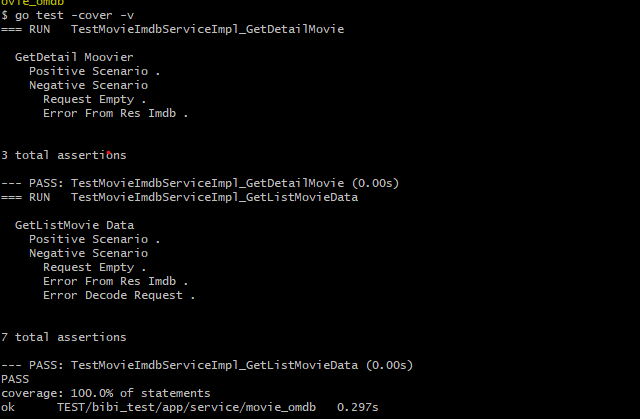
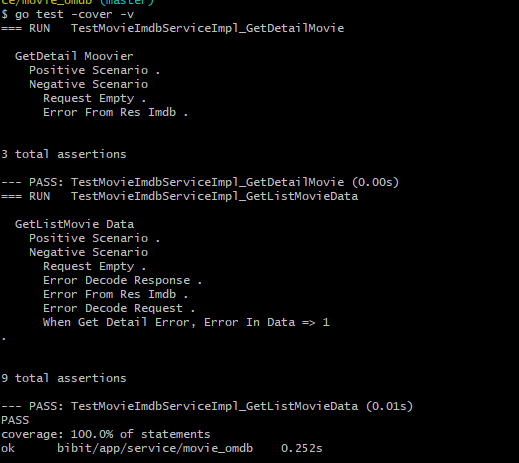
updating unit test

diff --git a/app/service/movie_omdb/movie_imdb_test.go b/app/service/movie_omdb/movie_imdb_test.go
@@ -46,7 +46,18 @@ func TestMovieImdbServiceImpl_GetListMovieData(t *testing.T) {
 				Page:    2,
 				Keyword: "2",
 			}
-			client.On("GetListMovieOmdb", req).Return(mock.Anything, nil)
+			var lis []*model.DataFilmList
+
+			lis = append(lis,&model.DataFilmList{
+				ImdbId: "1",
+
+			})
+			out:= &model.ResponseListFilm{
+				ListFilm: lis,
+				TotalResult: "1",
+			}
+			client.On("GetDeatailMovie", "1").Return(&model.ResponseGetDetailMovie{}, nil)
+			client.On("GetListMovieOmdb", req).Return(out, nil)
 			_, err := uc.GetListMovieData(req)
 			So(err, ShouldBeNil)
 		})
@@ -55,6 +66,17 @@ func TestMovieImdbServiceImpl_GetListMovieData(t *testing.T) {
 				client := &m.MovieImdbMockRepo{}
 				uc := NewMovieImdbServiceImpl(client)
 				_, err := uc.GetListMovieData(nil)
+				So(err, ShouldNotBeNil)
+			})
+			Convey("Error Decode Response", func() {
+				client := &m.MovieImdbMockRepo{}
+				uc := NewMovieImdbServiceImpl(client)
+				req := &model.GetListMovieRequest{
+					Page:    2,
+					Keyword: "2",
+				}
+				client.On("GetListMovieOmdb", req).Return([]string{"1"}, nil)
+				_, err := uc.GetListMovieData(req)
 				So(err, ShouldNotBeNil)
 			})
 			Convey("Error From Res Imdb", func() {
@@ -73,6 +95,28 @@ func TestMovieImdbServiceImpl_GetListMovieData(t *testing.T) {
 				uc := NewMovieImdbServiceImpl(client)
 				_, err := uc.GetListMovieData([]string{"1"})
 				So(err, ShouldNotBeNil)
+			})
+			Convey("When Get Detail Error,", func() {
+				client := &m.MovieImdbMockRepo{}
+				uc := NewMovieImdbServiceImpl(client)
+				req := &model.GetListMovieRequest{
+					Page:    2,
+					Keyword: "2",
+				}
+				var lis []*model.DataFilmList
+
+				lis = append(lis,&model.DataFilmList{
+					ImdbId: "1",
+
+				})
+				out:= &model.ResponseListFilm{
+					ListFilm: lis,
+					TotalResult: "1",
+				}
+				client.On("GetDeatailMovie", "1").Return(nil, errors.New("Err"))
+				client.On("GetListMovieOmdb", req).Return(out, nil)
+				_, err := uc.GetListMovieData(req)
+				So(err, ShouldBeNil)
 			})
 		})
 	})

diff --git a/app/controller/movie_test.go b/app/controller/movie_test.go
@@ -2,6 +2,7 @@ package controller
 
 import (
 	proto "bibit/app/infrastructure/grpc/proto/movie"
+	"bibit/app/model"
 	"bibit/app/service/movie_omdb"
 	m "bibit/app/shared/mock"
 	"context"
@@ -47,14 +48,22 @@ func TestMovieImdbController_GetDatilMovie(t *testing.T) {
 }
 
 func TestMovieImdbController_GetListMovieOmdb(t *testing.T) {
-	Convey("GetDetail Movie", t, func() {
+	Convey("Get List Movie", t, func() {
 		Convey("Positive Scenario", func() {
 			client := &m.MovieImdbMockRepo{}
 			uc := movie_omdb.NewMovieImdbServiceImpl(client)
 			req := &proto.GetListMovieRequest{
 				Keyword: "1",
 			}
-			client.On("GetListMovieOmdb", mock.Anything).Return(&proto.ResponseListFilm{}, nil)
+			list := []*proto.DataFilmList{
+				&proto.DataFilmList{
+					ImdbId: "1",
+				},
+			}
+			client.On("GetDeatailMovie", "1").Return(&model.ResponseGetDetailMovie{}, nil)
+			client.On("GetListMovieOmdb", mock.Anything).Return(&proto.ResponseListFilm{
+				ListFilm: list,
+			}, nil)
 			svc := NewMovieIMdbController(uc)
 			_, err := svc.GetListMovieOmdb(context.Background(), req)
 
@@ -71,11 +80,11 @@ func TestMovieImdbController_GetListMovieOmdb(t *testing.T) {
 				So(err, ShouldNotBeNil)
 			})
 			Convey("Error Decode Response From Res", func() {
-				client := &m.MovieImdbMockRepo{}
-				uc := movie_omdb.NewMovieImdbServiceImpl(client)
+				client := &m.MovieImdbMockSevice{}
+				//uc := movie_omdb.NewMovieImdbServiceImpl(client)
 				req := &proto.GetListMovieRequest{}
-				client.On("GetListMovieOmdb", mock.Anything).Return([]string{"1"}, nil)
-				svc := NewMovieIMdbController(uc)
+				client.On("GetListMovieData", mock.Anything).Return([]string{"1"}, nil)
+				svc := NewMovieIMdbController(client)
 				_, err := svc.GetListMovieOmdb(context.Background(), req)
 
 				So(err, ShouldNotBeNil)

diff --git a/app/service/movie_omdb/movie_imdb_service.go b/app/service/movie_omdb/movie_imdb_service.go
@@ -35,8 +35,10 @@ func (a *MovieImdbServiceImpl) GetListMovieData(in interface{}) (interface{}, er
 	}
 	var out *model.ResponseListFilm
 	err = mapstructure.Decode(resp, &out)
+	if err != nil {
+		return nil, err
+	}
 	wg := &sync.WaitGroup{}
-
 	for _, dt := range out.ListFilm {
 		wg.Add(1)
 		go func(in *model.DataFilmList) {
@@ -44,6 +46,7 @@ func (a *MovieImdbServiceImpl) GetListMovieData(in interface{}) (interface{}, er
 			res, err := a.repo.GetDeatailMovie(in.ImdbId)
 			if err != nil {
 				fmt.Println("Error In Data =>", in.ImdbId)
+				return
 			}
 			in.Detail = res.(*model.ResponseGetDetailMovie)
 		}(dt)
